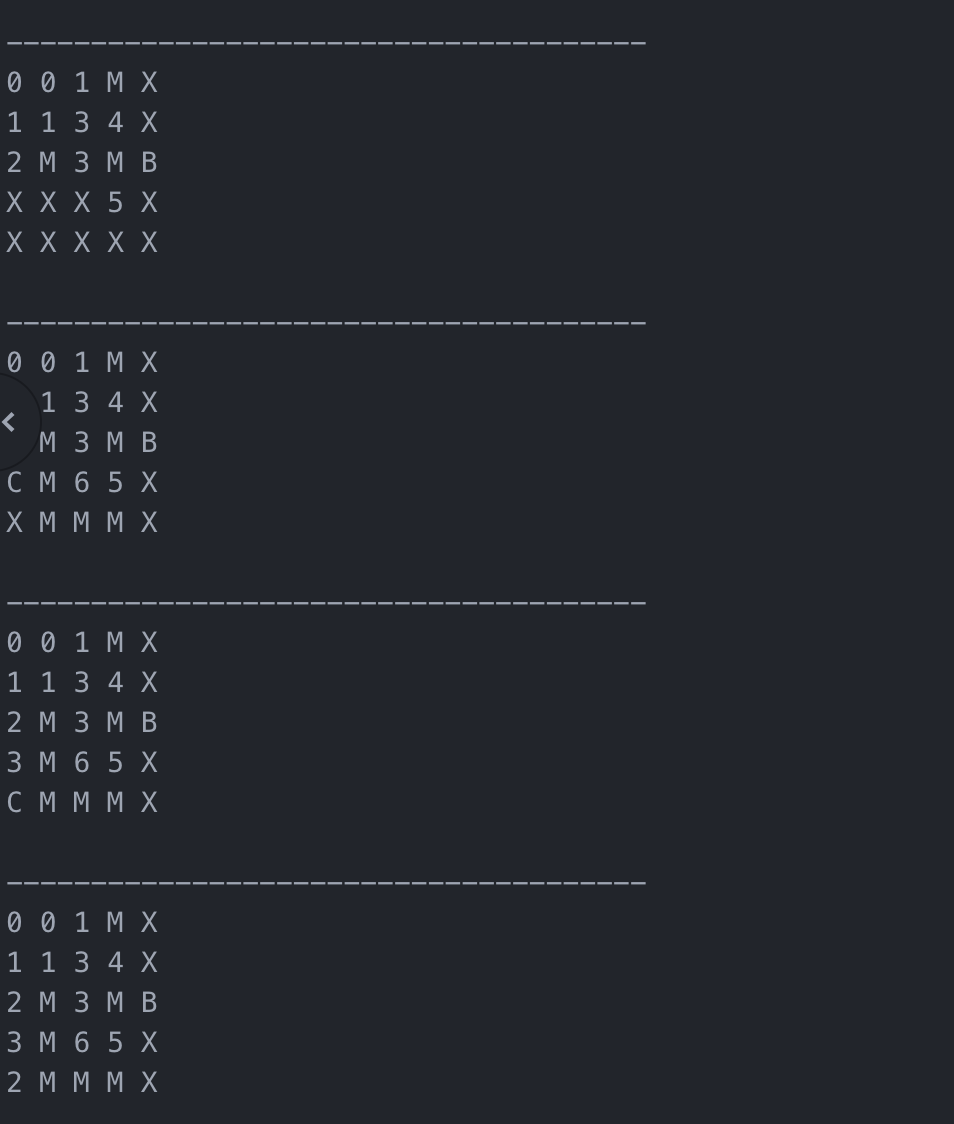
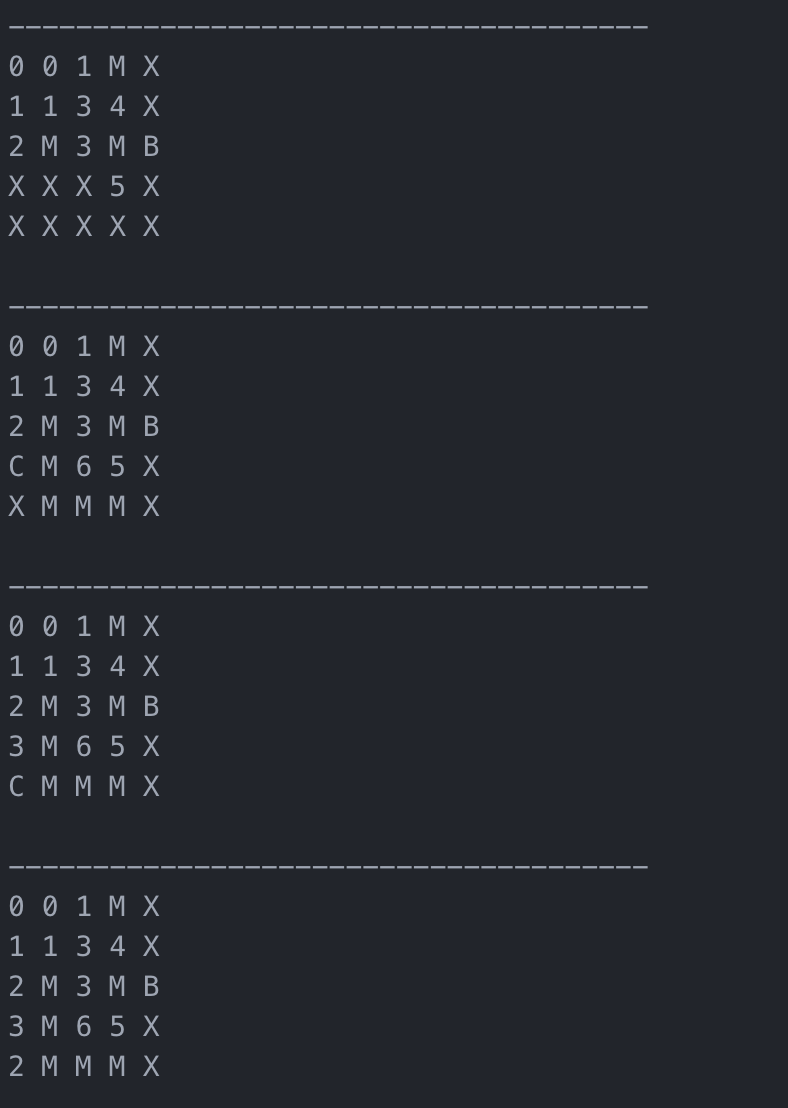
Fixed img4

diff --git a/ImprovedVisualization.py b/ImprovedVisualization.py
@@ -56,10 +56,7 @@ class Visual(tk.Frame):
 
 """Choose the dimension size: (size, number of mines)"""
 if __name__=='__main__':
-    rendered_grid = ImprovedSetting(10, 30)
+    rendered_grid = ImprovedSetting(5, 15)
     imp_agent = ImprovedAgent(rendered_grid)
     board = Visual(rendered_grid, imp_agent)
     board.mainloop()
-
-
-
